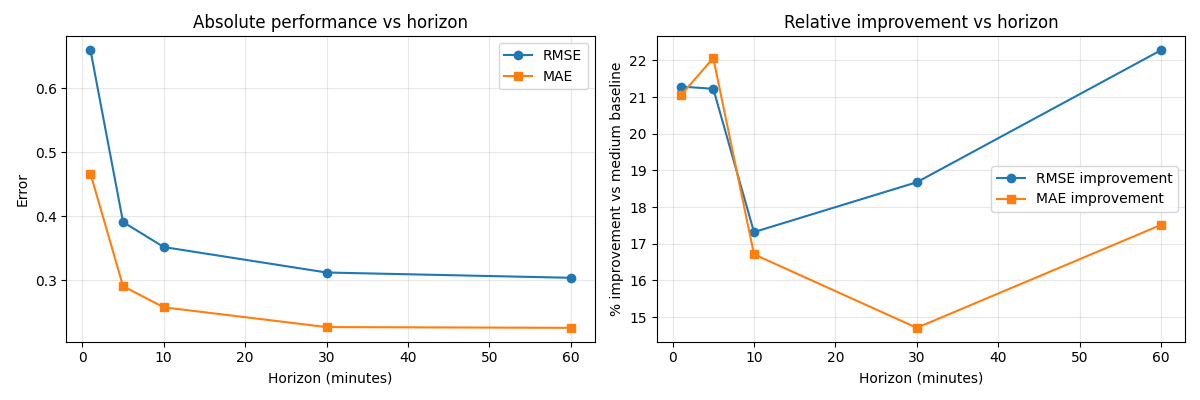
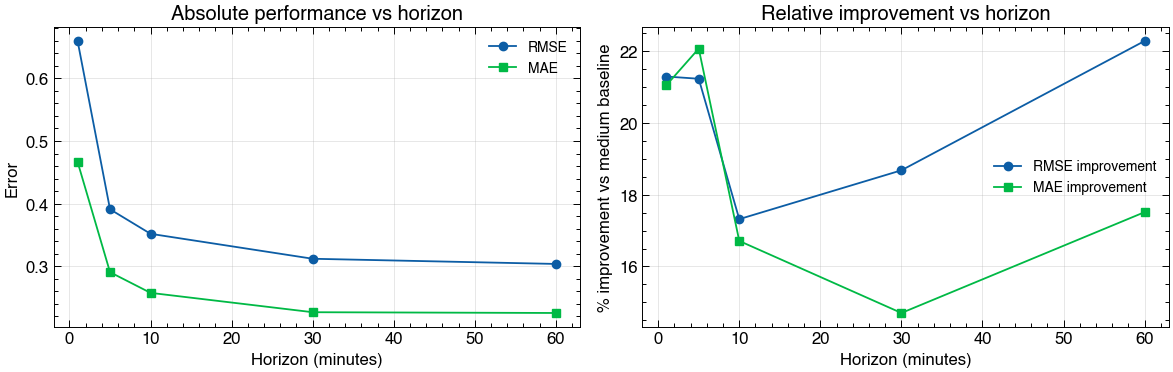
Run model for multiple horizons

diff --git a/scripts/train_single_horizon.py b/scripts/train_single_horizon.py
@@ -6,12 +6,13 @@ import pandas as pd
 from sklearn.metrics import mean_squared_error, mean_absolute_error
 from pathlib import Path
 import matplotlib as mpl
+import matplotlib.pyplot as plt
 import sys
 SCRIPT_DIR = Path(__file__).resolve().parent
 SRC_DIR = (SCRIPT_DIR / "../src").resolve()
 sys.path.append(str(SRC_DIR))
 from volare import data, features, model
-mpl.style.use('../styles/science.mplstyle')
+plt.style.use('../styles/science.mplstyle')
 
 def train_single_horizon(df, horizon_seconds, k=8, alpha=1):
     """
